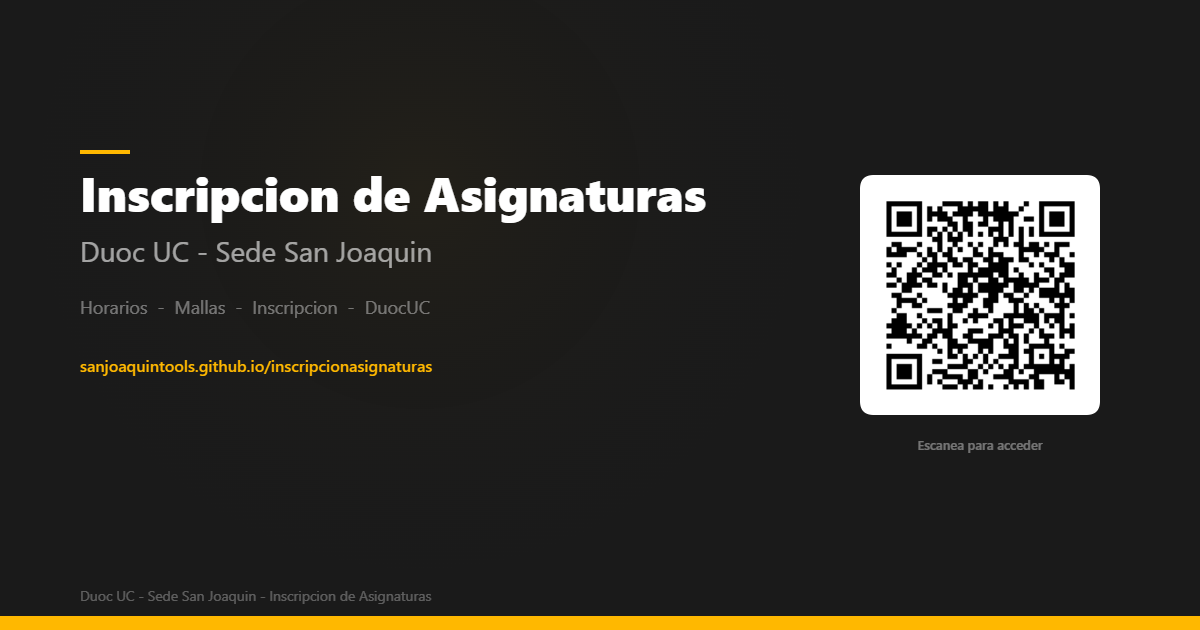
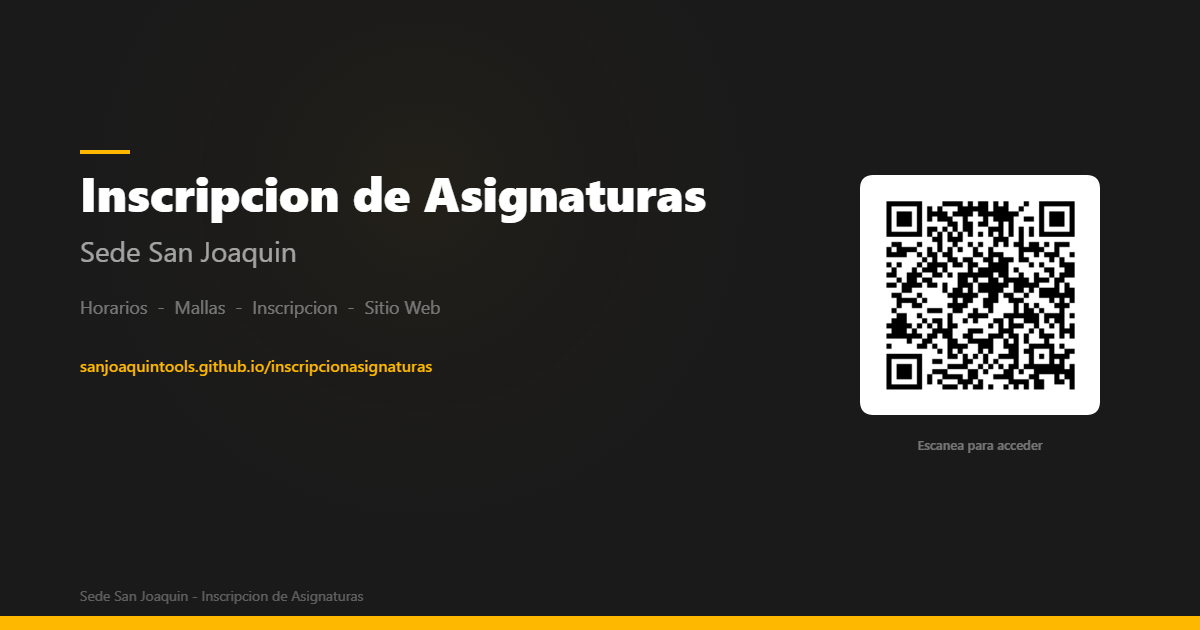
Bug fixes

Changed region(s): [[0.0617, 0.3619, 0.37, 0.4222], [0.0617, 0.9349, 0.37, 0.9651], [0.3083, 0.4825, 0.37, 0.5127]]

diff --git a/convertir-og.html b/convertir-og.html
@@ -41,9 +41,9 @@
             ctx.fillStyle = '#FFFFFF'; ctx.font = '800 72px system-ui'; ctx.textBaseline = 'top'; ctx.textAlign = 'left';
             ctx.fillText('Inscripcion de Asignaturas', 120, 280);
             ctx.fillStyle = 'rgba(255,255,255,0.6)'; ctx.font = '400 38px system-ui';
-            ctx.fillText('Duoc UC - Sede San Joaquin', 120, 375);
+            ctx.fillText('Sede San Joaquin', 120, 375);
             ctx.fillStyle = 'rgba(255,255,255,0.4)'; ctx.font = '400 26px system-ui';
-            var links = ['->  Opciones horarias 2026 - 2','->  Descarga tu horario aqui','->  Mallas Curriculares','->  Inscribe tus asignaturas aqui','->  Sitio Web DuocUC'];
+            var links = ['->  Opciones horarias 2026 - 2','->  Descarga tu horario aqui','->  Mallas Curriculares','->  Inscribe tus asignaturas aqui','->  Sitio Web'];
             for (var i = 0; i < links.length; i++) { ctx.fillText(links[i], 140, 460 + i * 44); }
             ctx.fillStyle = '#FFB800'; ctx.font = '600 22px system-ui';
             ctx.fillText('sanjoaquintools.github.io/inscripcionasignaturas', 120, 720);
@@ -56,7 +56,7 @@
             ctx.textAlign = 'left';
             ctx.fillStyle = '#FFB800'; ctx.fillRect(0, H - 16, W, 16);
             ctx.fillStyle = 'rgba(255,255,255,0.3)'; ctx.font = '400 16px system-ui';
-            ctx.fillText('Duoc UC - Sede San Joaquin - Inscripcion de Asignaturas - 2026', 120, H - 50);
+            ctx.fillText('Sede San Joaquin - Inscripcion de Asignaturas - 2026', 120, H - 50);
             document.getElementById('status').textContent = 'Imagen lista para descargar';
         }
         function roundRect(ctx, x, y, w, h, r) {
@@ -77,9 +77,9 @@
             c.fillStyle = '#FFB800'; c.fillRect(80, 150, 50, 4);
             c.fillStyle = '#FFFFFF'; c.font = '800 48px system-ui'; c.textBaseline = 'top'; c.textAlign = 'left';
             c.fillText('Inscripcion de Asignaturas', 80, 175);
-            c.fillStyle = 'rgba(255,255,255,0.6)'; c.font = '400 28px system-ui'; c.fillText('Duoc UC - Sede San Joaquin', 80, 240);
+            c.fillStyle = 'rgba(255,255,255,0.6)'; c.font = '400 28px system-ui'; c.fillText('Sede San Joaquin', 80, 240);
             c.fillStyle = 'rgba(255,255,255,0.4)'; c.font = '400 18px system-ui';
-            c.fillText('Horarios  -  Mallas  -  Inscripcion  -  DuocUC', 80, 300);
+            c.fillText('Horarios  -  Mallas  -  Inscripcion  -  Sitio Web', 80, 300);
             c.fillStyle = '#FFB800'; c.font = '600 16px system-ui';
             c.fillText('sanjoaquintools.github.io/inscripcionasignaturas', 80, 360);
             var qS = 240, qX = W - qS - 100, qY = (H - qS) / 2 - 20;
@@ -89,7 +89,7 @@
             c.fillText('Escanea para acceder', qX + qS/2, qY + qS + 25); c.textAlign = 'left';
             c.fillStyle = '#FFB800'; c.fillRect(0, H - 14, W, 14);
             c.fillStyle = 'rgba(255,255,255,0.3)'; c.font = '400 14px system-ui';
-            c.fillText('Duoc UC - Sede San Joaquin - Inscripcion de Asignaturas', 80, H - 40);
+            c.fillText('Sede San Joaquin - Inscripcion de Asignaturas', 80, H - 40);
             var a = document.createElement('a'); a.download = 'og-image.png'; a.href = ogC.toDataURL('image/png'); a.click();
         }
     </script>

diff --git a/index.html b/index.html
@@ -3,11 +3,11 @@
 <head>
     <meta charset="UTF-8">
     <meta name="viewport" content="width=device-width, initial-scale=1.0">
-    <title>Inscripción de Asignaturas - Duoc UC Sede San Joaquín</title>
-    <meta name="description" content="Opciones horarias, descarga de horarios, mallas curriculares e inscripción de asignaturas. Duoc UC sede San Joaquín.">
+    <title>Inscripción de Asignaturas - Sede San Joaquín</title>
+    <meta name="description" content="Opciones horarias, descarga de horarios, mallas curriculares e inscripción de asignaturas. Sede San Joaquín.">
     <!-- Open Graph -->
-    <meta property="og:title" content="Inscripción de Asignaturas - Duoc UC Sede San Joaquín">
-    <meta property="og:description" content="Opciones horarias, descarga de horarios, mallas curriculares e inscripción de asignaturas. Duoc UC sede San Joaquín.">
+    <meta property="og:title" content="Inscripción de Asignaturas - Sede San Joaquín">
+    <meta property="og:description" content="Opciones horarias, descarga de horarios, mallas curriculares e inscripción de asignaturas. Sede San Joaquín.">
     <meta property="og:image" content="https://sanjoaquintools.github.io/inscripcionasignaturas/og-image.png">
     <meta property="og:url" content="https://sanjoaquintools.github.io/inscripcionasignaturas/">
     <meta property="og:type" content="website">
